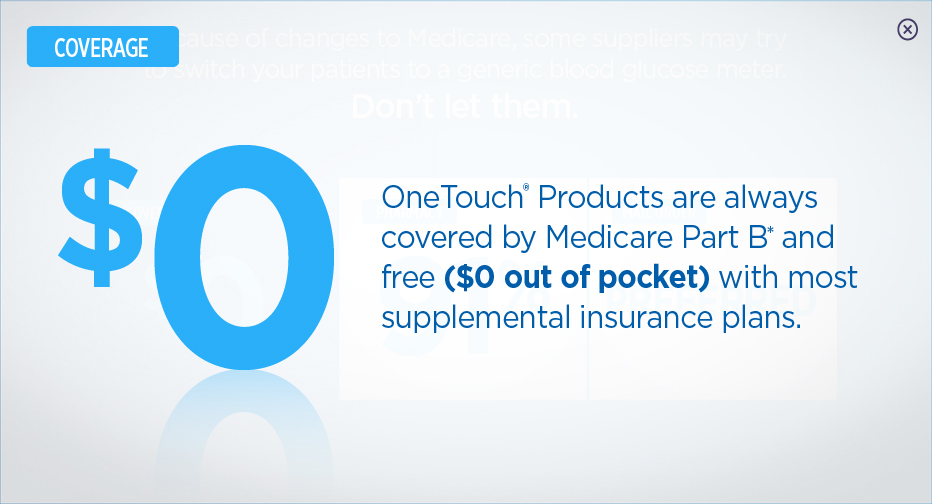
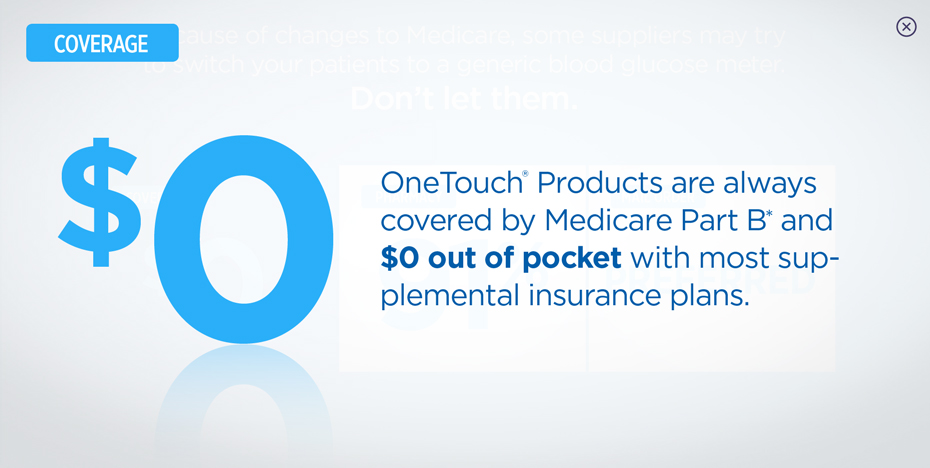
add disclaimers to coverage page

diff --git a/salesaid/pa_v2/slide-5.1a.html b/salesaid/pa_v2/slide-5.1a.html
@@ -15,6 +15,16 @@
     
     <script src="res/javascript/global.js?v=34"></script>
     <script src="res/javascript/5.1a.js?v=34"></script>
+    <style>
+      @font-face {
+      font-family: xGothamNarrow;
+      src: url(res/fonts/Gotham-XNarrow/GothamXNarrow-Medium.otf);
+      }
+      area {
+      outline: none;
+      border: none;
+      }
+    </style>
     
   </head>
   <body>
@@ -28,10 +38,10 @@
     <header>
       <nav class="right" style="position: absolute; left: 750px; top: 18px;">
 	<img id="btn-home" src="res/images/global/btn-home.png"
-	height="24" style="float:left; margin-right:10px; z-index: 1000;" />
+	     height="24" style="float:left; margin-right:10px; z-index: 1000;" />
 	<img id="btn-portfolio"
-	src="res/images/global/btn-portfolio.png" height="24"
-	style="z-index: 1000;" />
+	     src="res/images/global/btn-portfolio.png" height="24"
+	     style="z-index: 1000;" />
       </nav>
     </header>  
     
@@ -60,9 +70,10 @@
              height="504" alt="" />
         <map id="_Image-Maps_5201310301631384"
              name="Image-Maps_5201310301631384">
-          <area shape="rect" coords="890,7,927,47"
-                onClick="$('#coverage-overlay').hide(); return false;" href="#" alt="" title=""
+          <area shape="rect" border="0" onfocus="blur();" coords="890,7,927,47"
+                onClick="$('#coverage-overlay').hide(); $('#coverage_disclaimer, #pharmacy_discliamer').hide(); return false;" href="#" alt="" title=""
                 />
+	  <area shape="rect" border="0" onfocus="blur();" coords="752,200,789,235"  onClick="$('#pharmacy_disclaimer').hide(); $('#coverage_disclaimer').toggle();  return false;"  href="#" alt="" title=""    />
 
         </map>
       </div>
@@ -79,12 +90,17 @@
         <map id="_Image-Maps_5201310301631385"
              name="Image-Maps_5201310301631385">
           <area shape="rect" coords="890,7,927,47" href="#" alt="" title=""
-                onClick="$('#pharmacy-overlay').hide(); return
-                         false;" />
+                onClick="$('#pharmacy-overlay').hide(); $('#pharmacy_disclaimer, #coverage_disclaimer').hide(); return
+                         false; " />
           <area shape="rect" coords="685,420,889,469" href="pharmacies.html" alt="" title=""
                 />
+	   <area shape="rect" coords="833,275,863,307" href="#" onClick="$('#coverage_disclaimer').hide(); $('#pharmacy_disclaimer').toggle(); return false;"  alt="" title=""    />
         </map>
       </div>
+
+
+
+
     </div>
     <div id="mailorder-overlay" style="position: absolute;
                                        z-index: 100; left: 45px;
@@ -107,12 +123,33 @@
     </div>
 
     <a href="pa_v2.html"><img src="res/images/global/btn-prev.png" 
-                           height="33" style="position: absolute; left: 24px; bottom: 75px;
-                                              opacity: .3;" /></a>
+                              height="33" style="position: absolute; left: 24px; bottom: 75px;
+						 opacity: .3;" /></a>
     <div class="contentLayer" style="display: none;">
     </div>
     
+    <p id="coverage_disclaimer" style="display: none; font-size: 12px; color: #fff; 
+				       color: #fff;
+				       font-family: xGothamNarrow;
+				       position: absolute;
+				       left: 70px;
+				       bottom: 8px;
+				       ">
+      *May be subject to co-insurance, deductable, and patient eligibility requirements. Not a guarantee of coverage and payment.
+    </p>
+    
+    <p id="pharmacy_disclaimer" style="font-size: 12px; color: #fff; 
+				       color: #fff;
+				       font-family: xGothamNarrow;
+				       position: absolute;
+				       left: 70px;
+				       bottom: 8px;
+				       display: none;
+				       ">
+      *Based on data from July 2013
+    </p>
 
     
+
   </body>
 </html>
